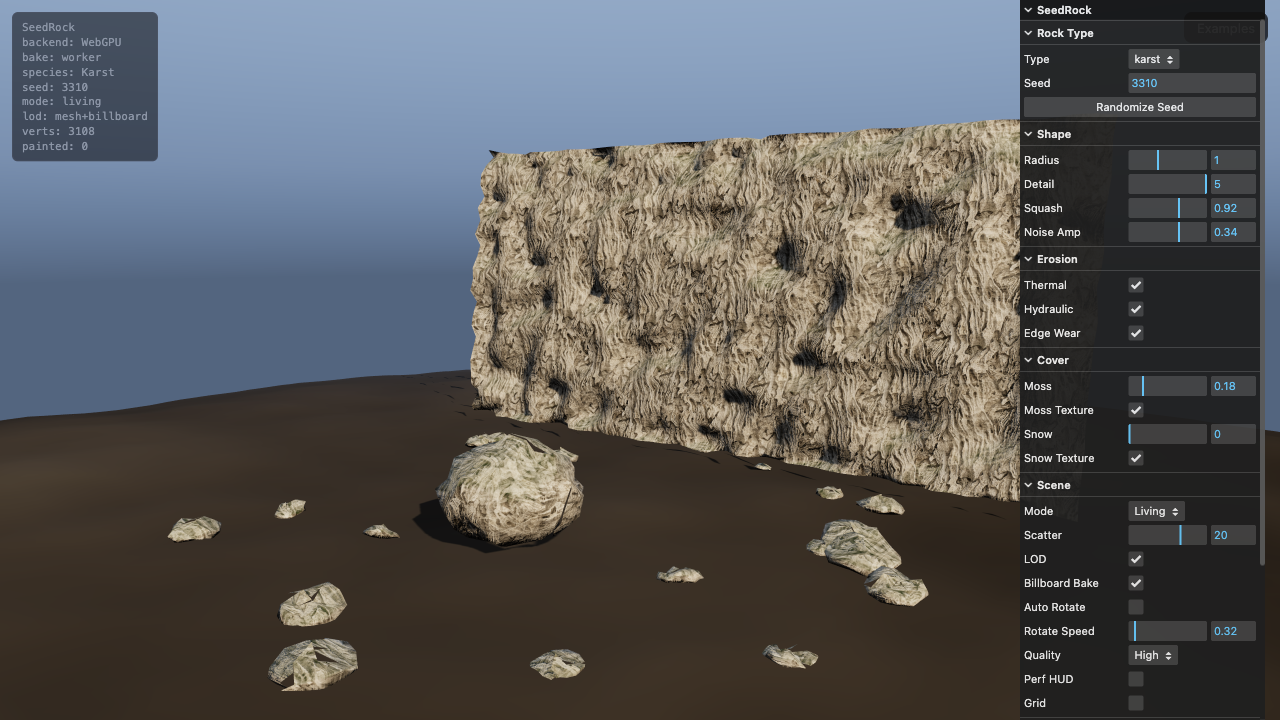
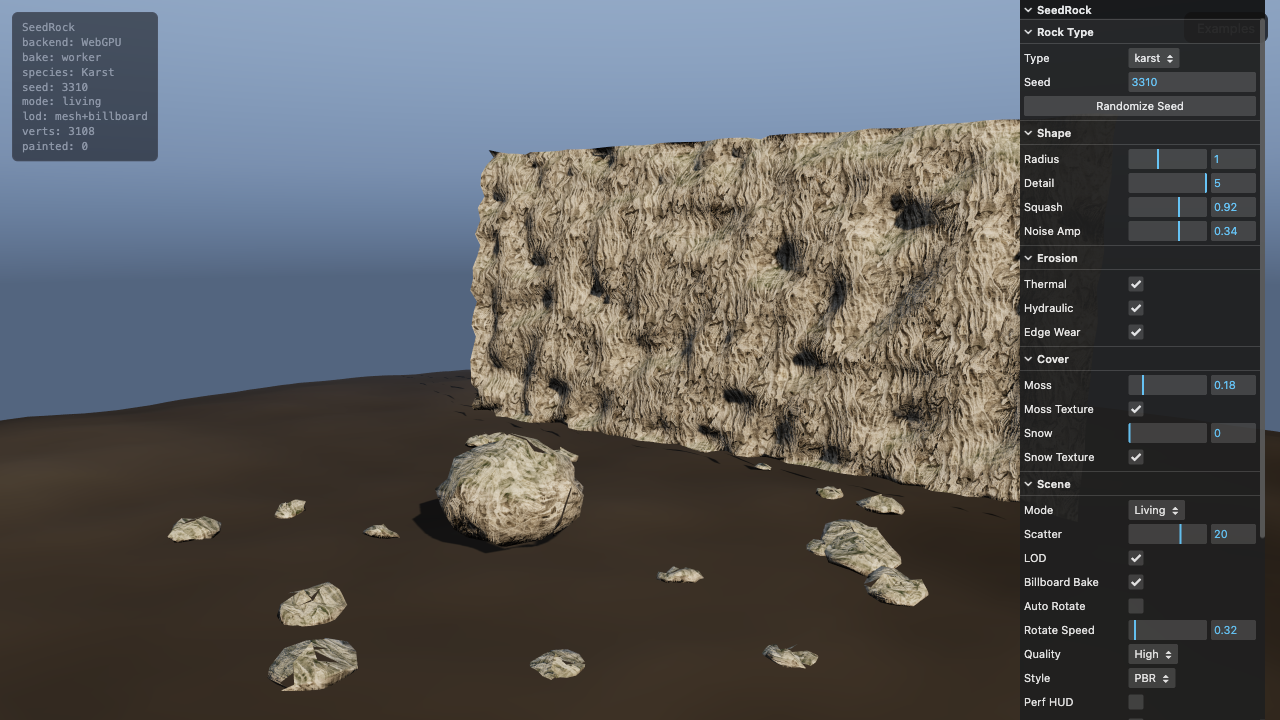
docs: v1.3 storefront refresh — 15 species grid, style showcase, roadmap (#29)
README now reflects the v1.3 surface. Three sections replace the old
single-hero + 9-tile layout:

- Style showcase: PBR / Low Poly / Toon comparison row at the top — the
  three-way render is the headline v1.3 capability and was invisible before.
  Each tile deep-links with &style=pbr|lowpoly|toon.
- Species grid: 9 → 15 tiles, 5×3, with form/material annotations (Basalt
  columnar, Slate foliated, Crystal cluster, Ore vein, Ice translucent).
  Six new tiles for slate/crystal/marble/obsidian/ore/ice.
- Status line bumped 1.2 → 1.3; Features and Roadmap rewritten to list
  stylization, form primitives, species expansion, toon outline, ice
  transmission, and collider export as shipped.

Also adds ?style= to applyUrlState so render styles are deep-linkable
(same pattern as species/scene/moss). Screenshots captured live against
the dev server; the toon shot's dark average (R:14 vs PBR R:80) confirms
the outline + cel banding actually rendered.

url-state.test.js still passes (44/44) — the new param is additive.

diff --git a/src/ui/url-state.js b/src/ui/url-state.js
@@ -35,6 +35,9 @@ export function applyUrlState(state, params = new URLSearchParams(location.searc
 
   if (params.get('lod') === '0') state.useLOD = false;
   if (params.get('rotate') === '0') state.autoRotate = false;
+
+  const style = params.get('style');
+  if (style === 'pbr' || style === 'lowpoly' || style === 'toon') state.style = style;
 }
 
 /**

diff --git a/README.md b/README.md
@@ -10,40 +10,61 @@
 
 </div>
 
-A fully procedural rock and cliff generator: pick a rock type, tune its parameters, and get a unique, textured, erosion-sculpted 3D rock you can drop into a scene or export to glTF. **Paint rocks directly onto terrain** with the brush tool, or generate a full living scene in one click.
+A fully procedural rock **and beyond** generator: pick a species, tune its parameters, and get a unique, textured, erosion-sculpted 3D mesh you can drop into a scene or export to glTF. **Paint rocks directly onto terrain**, render in **three styles** (PBR / Low Poly / Toon), or generate a full living scene in one click.
 
 The live viewer opens to a **curated Karst canyon** — cliff face, scattered boulders, moss, and atmospheric terrain — not a debug grid on a gray plane.
 
-> **Status: `1.2`.** Nine rock types, terrain scatter-painting, moss & snow overlays, optional AO maps, full LOD + impostor pipeline, AI texture workflow, tests, and community docs.
+> **Status: `1.3`.** Fifteen species across rocks + crystal + ice, three render styles, terrain scatter-painting, collider export, moss & snow overlays, full LOD + impostor pipeline, AI texture workflow, tests.
 
-### Nine rock types
+### Three render styles — one seed, three looks
 
 <div align="center">
 <table>
 <tr>
-<td align="center"><a href="https://reed-soul.github.io/SeedRock/?species=granite&seed=42&scene=living&moss=0.15"><img src="docs/images/shots/granite.png" width="200"><br><sub>Granite</sub></a></td>
-<td align="center"><a href="https://reed-soul.github.io/SeedRock/?species=sandstone&seed=117&scene=living"><img src="docs/images/shots/sandstone.png" width="200"><br><sub>Sandstone</sub></a></td>
-<td align="center"><a href="https://reed-soul.github.io/SeedRock/?species=basalt&seed=88&scene=living"><img src="docs/images/shots/basalt.png" width="200"><br><sub>Basalt</sub></a></td>
-</tr>
-<tr>
-<td align="center"><a href="https://reed-soul.github.io/SeedRock/?species=limestone&seed=204&scene=living&moss=0.10"><img src="docs/images/shots/limestone.png" width="200"><br><sub>Limestone</sub></a></td>
-<td align="center"><a href="https://reed-soul.github.io/SeedRock/?species=volcanic&seed=13&scene=living"><img src="docs/images/shots/volcanic.png" width="200"><br><sub>Volcanic</sub></a></td>
-<td align="center"><a href="https://reed-soul.github.io/SeedRock/?species=glacial&seed=3310&scene=living&moss=0.30"><img src="docs/images/shots/glacial.png" width="200"><br><sub>Glacial</sub></a></td>
-</tr>
-<tr>
-<td align="center"><a href="https://reed-soul.github.io/SeedRock/?species=river_cobble&seed=77&scene=living&moss=0.20"><img src="docs/images/shots/river-cobble.png" width="200"><br><sub>River Cobble</sub></a></td>
-<td align="center"><a href="https://reed-soul.github.io/SeedRock/?species=karst&seed=3310&scene=living&moss=0.18"><img src="docs/images/shots/karst.png" width="200"><br><sub>Karst</sub></a></td>
-<td align="center"><a href="https://reed-soul.github.io/SeedRock/?species=schist&seed=256&scene=living&moss=0.12"><img src="docs/images/shots/schist.png" width="200"><br><sub>Schist</sub></a></td>
+<td align="center"><a href="https://reed-soul.github.io/SeedRock/?species=granite&seed=42&scene=single&style=pbr"><img src="docs/images/style-pbr.png" width="260"><br><sub><b>PBR</b> — realistic</sub></a></td>
+<td align="center"><a href="https://reed-soul.github.io/SeedRock/?species=granite&seed=42&scene=single&style=lowpoly"><img src="docs/images/style-lowpoly.png" width="260"><br><sub><b>Low Poly</b> — flat-shaded</sub></a></td>
+<td align="center"><a href="https://reed-soul.github.io/SeedRock/?species=granite&seed=42&scene=single&style=toon"><img src="docs/images/style-toon.png" width="260"><br><sub><b>Toon</b> — cel + ink outline</sub></a></td>
 </tr>
 </table>
 </div>
 
-*Click any rock to open it in the live viewer.* Each type has its own erosion profile (granite fractures differently from karst dissolution), noise scales, and a 1024px AI-derived PBR set.
+### Fifteen species — rocks, crystals, ice
+
+<div align="center">
+<table>
+<tr>
+<td align="center"><a href="https://reed-soul.github.io/SeedRock/?species=granite&seed=42&scene=living&moss=0.15"><img src="docs/images/shots/granite.png" width="180"><br><sub>Granite</sub></a></td>
+<td align="center"><a href="https://reed-soul.github.io/SeedRock/?species=sandstone&seed=117&scene=living"><img src="docs/images/shots/sandstone.png" width="180"><br><sub>Sandstone</sub></a></td>
+<td align="center"><a href="https://reed-soul.github.io/SeedRock/?species=basalt&seed=88&scene=living"><img src="docs/images/shots/basalt.png" width="180"><br><sub>Basalt <sub>columnar</sub></sub></a></td>
+<td align="center"><a href="https://reed-soul.github.io/SeedRock/?species=limestone&seed=204&scene=living&moss=0.10"><img src="docs/images/shots/limestone.png" width="180"><br><sub>Limestone</sub></a></td>
+<td align="center"><a href="https://reed-soul.github.io/SeedRock/?species=volcanic&seed=13&scene=living"><img src="docs/images/shots/volcanic.png" width="180"><br><sub>Volcanic</sub></a></td>
+</tr>
+<tr>
+<td align="center"><a href="https://reed-soul.github.io/SeedRock/?species=glacial&seed=3310&scene=living&moss=0.30"><img src="docs/images/shots/glacial.png" width="180"><br><sub>Glacial</sub></a></td>
+<td align="center"><a href="https://reed-soul.github.io/SeedRock/?species=river_cobble&seed=77&scene=living&moss=0.20"><img src="docs/images/shots/river-cobble.png" width="180"><br><sub>River Cobble</sub></a></td>
+<td align="center"><a href="https://reed-soul.github.io/SeedRock/?species=karst&seed=3310&scene=living&moss=0.18"><img src="docs/images/shots/karst.png" width="180"><br><sub>Karst</sub></a></td>
+<td align="center"><a href="https://reed-soul.github.io/SeedRock/?species=schist&seed=256&scene=living&moss=0.12"><img src="docs/images/shots/schist.png" width="180"><br><sub>Schist</sub></a></td>
+<td align="center"><a href="https://reed-soul.github.io/SeedRock/?species=slate&seed=512&scene=living&moss=0.05"><img src="docs/images/shots/slate.png" width="180"><br><sub>Slate <sub>foliated</sub></sub></a></td>
+</tr>
+<tr>
+<td align="center"><a href="https://reed-soul.github.io/SeedRock/?species=marble&seed=200&scene=living"><img src="docs/images/shots/marble.png" width="180"><br><sub>Marble</sub></a></td>
+<td align="center"><a href="https://reed-soul.github.io/SeedRock/?species=obsidian&seed=13&scene=living"><img src="docs/images/shots/obsidian.png" width="180"><br><sub>Obsidian</sub></a></td>
+<td align="center"><a href="https://reed-soul.github.io/SeedRock/?species=crystal&seed=88&scene=living"><img src="docs/images/shots/crystal.png" width="180"><br><sub>Crystal <sub>cluster</sub></sub></a></td>
+<td align="center"><a href="https://reed-soul.github.io/SeedRock/?species=ore&seed=64&scene=living"><img src="docs/images/shots/ore.png" width="180"><br><sub>Ore <sub>vein</sub></sub></a></td>
+<td align="center"><a href="https://reed-soul.github.io/SeedRock/?species=ice&seed=3310&scene=living&moss=0.10"><img src="docs/images/shots/ice.png" width="180"><br><sub>Ice <sub>translucent</sub></sub></a></td>
+</tr>
+</table>
+</div>
+
+*Click any tile to open it in the live viewer.* Four geometry primitives (boulder / columnar / slate / crystal) drive the silhouettes; each species carries its own erosion profile, noise scales, and a 1024px AI-derived PBR set.
 
 ## Features
 
-- **Nine rock types** — Granite, Sandstone, Limestone, Basalt, Volcanic, Glacial, River Cobble, Karst, Schist
-- **Terrain scatter-painting** — switch to Paint mode and brush rocks directly onto the terrain; painted rocks survive species changes and export with the scene
+- **Three render styles** — PBR (realistic), Low Poly (flat-shaded), Toon (cel shading + ink outline)
+- **Fifteen species** — nine rocks + slate/marble/obsidian (metamorphic & volcanic glass) + crystal/ore (mineral clusters) + ice (transmission)
+- **Four form primitives** — boulder, columnar (hex-prism colonnades), slate (foliated slabs), crystal (radiating shard clusters)
+- **Terrain scatter-painting** — brush rocks directly onto the terrain; painted rocks survive species changes and export with the scene
+- **Collider export** — GLB includes a `<rock>_collider` physics proxy (reduced-LOD geometry) for Unity/Godot/Unreal import
 - **Erosion simulation** — hydraulic, thermal, and edge-wear passes on every rock
 - **PBR textures** — 1024px AI albedo (Gemini) + Sobel-derived normal/roughness/AO per species
 - **Moss / snow overlays** — slope-driven biome cover with dedicated PBR texture sets
@@ -149,8 +170,14 @@ Following the same cross-agent collaboration model as [SeedThree](https://github
 - [x] GitHub Pages live demo
 - [x] Glacial rock type
 - [x] AI texture prompts + ingest pipeline
-- [x] Full AI PBR set for all 9 species (Gemini albedo + Sobel-derived normal/roughness/AO)
+- [x] Full AI PBR set for all species (Gemini albedo + Sobel-derived normal/roughness/AO)
 - [x] Terrain scatter-painting (brush rocks directly onto the ground)
+- [x] Stylization pipeline — PBR / Low Poly / Toon render styles
+- [x] Form primitives — columnar / slate / crystal geometry (beyond displacement spheres)
+- [x] Species expansion — marble / obsidian / ore / slate / crystal / ice (9 → 15)
+- [x] Toon outline pass (BackSide-normal-extruded ink line)
+- [x] Ice with transmission material (MeshPhysicalNodeMaterial, ior 1.31)
+- [x] Auto collider proxy in GLB export (`*_collider` for engine physics import)
 - [x] Community contribution docs + CI tests
 
 ## License
